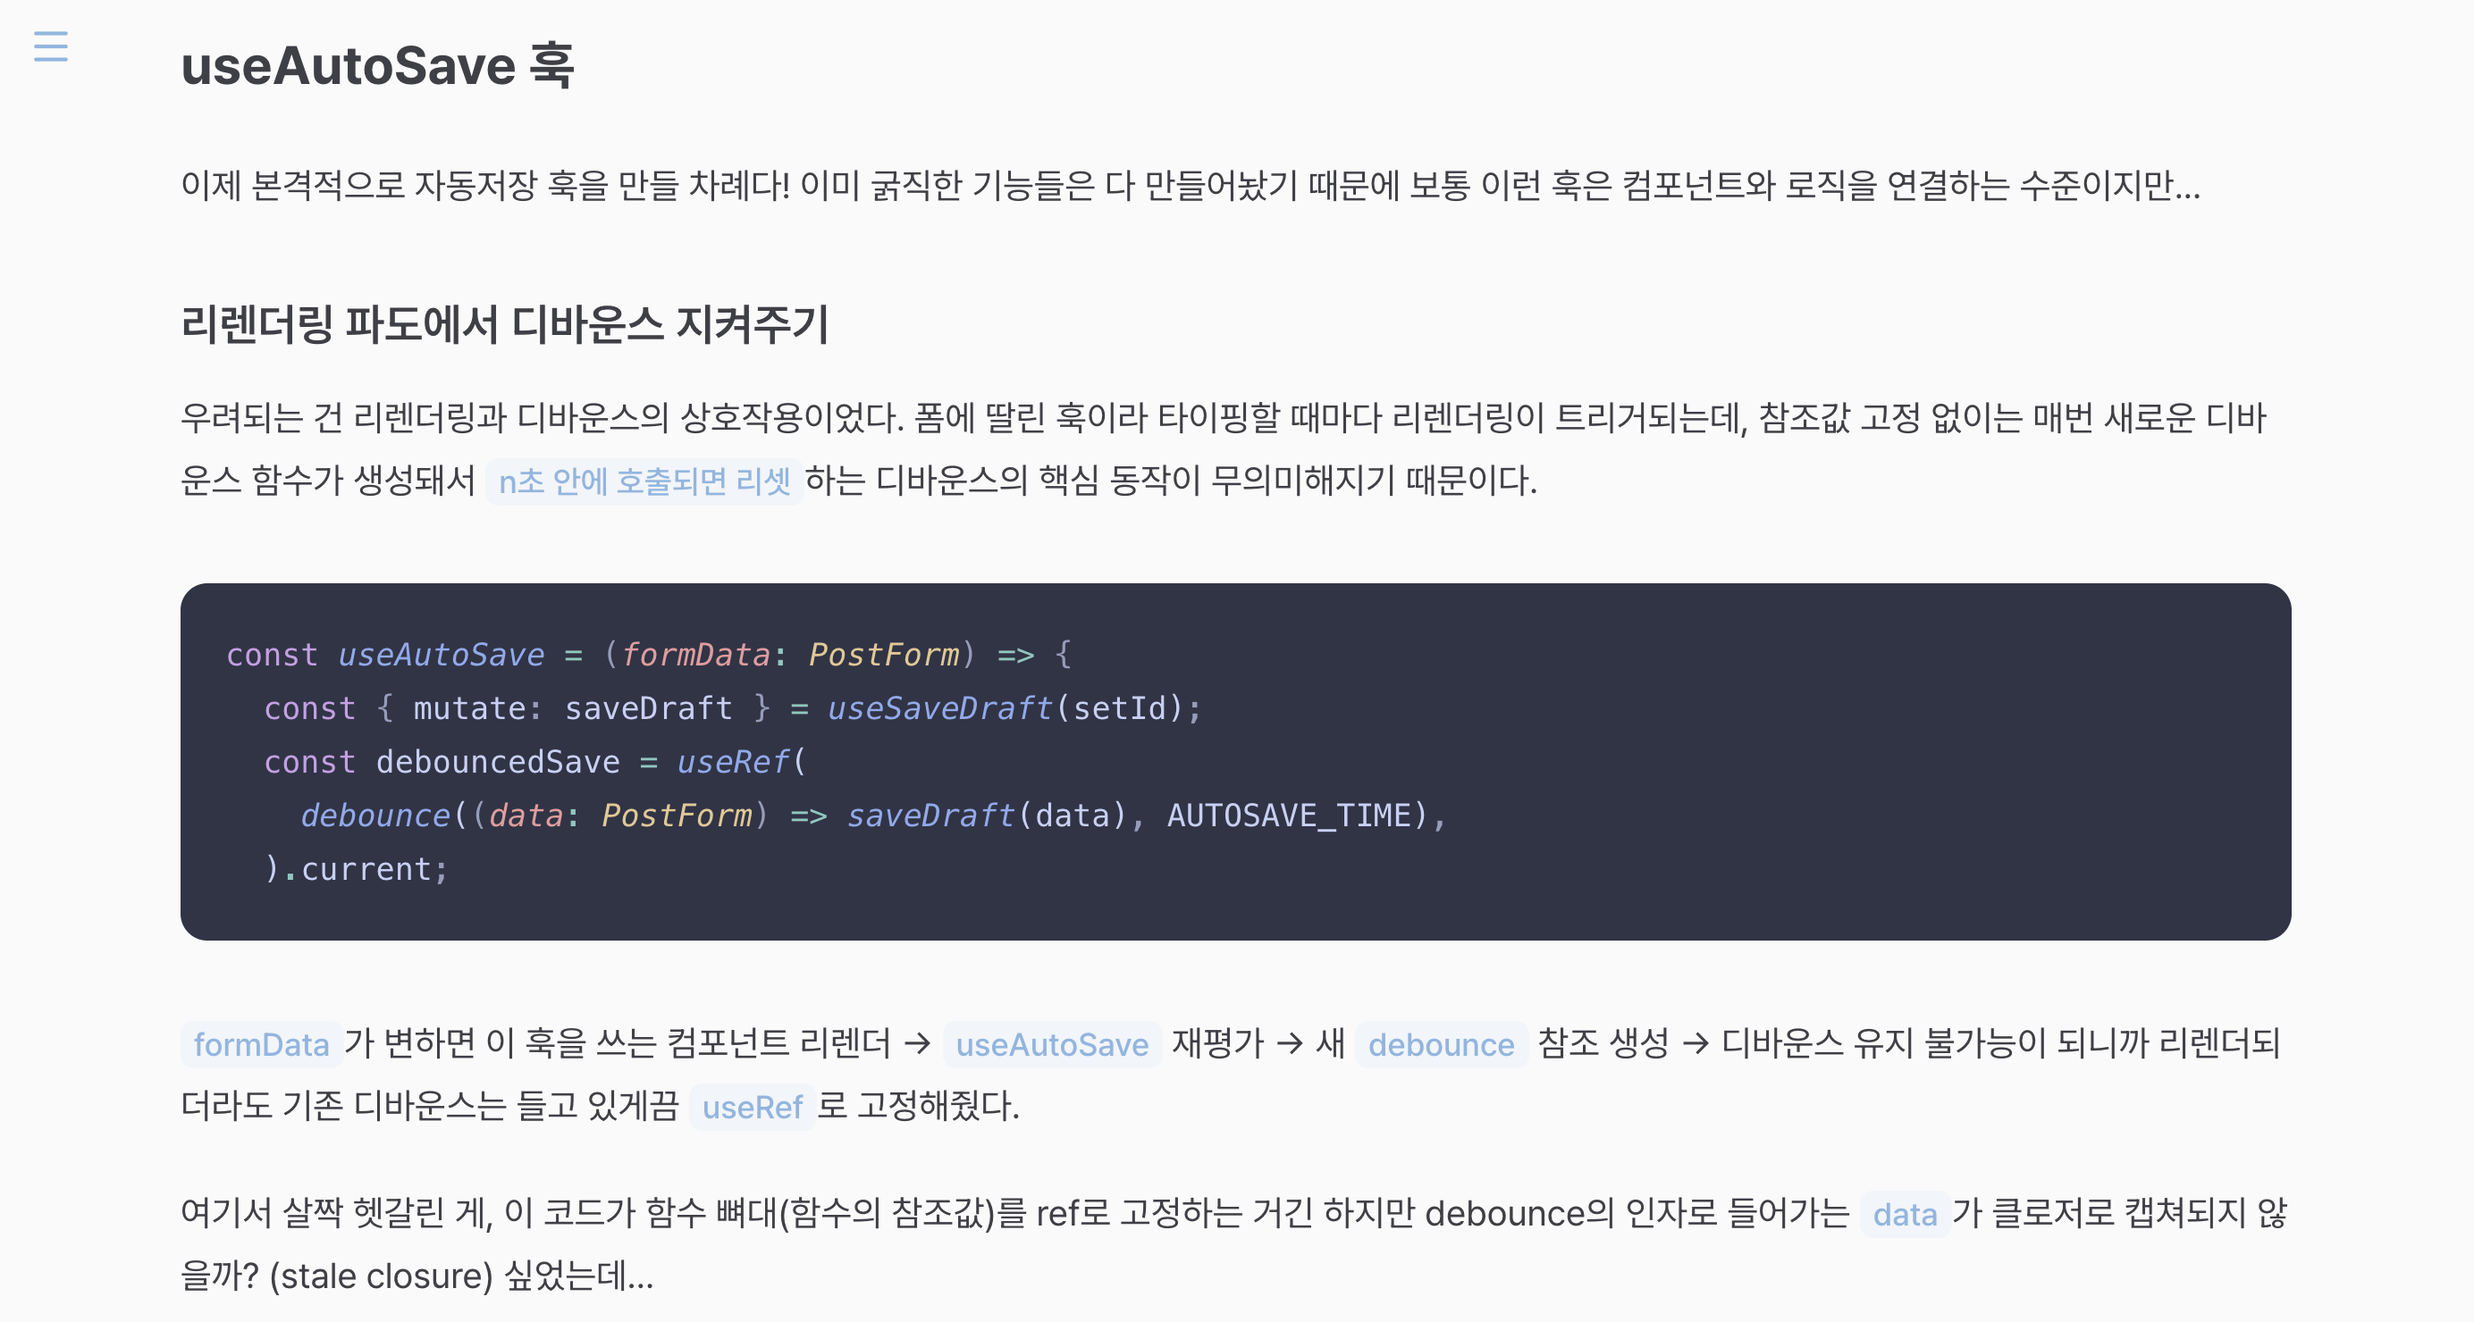
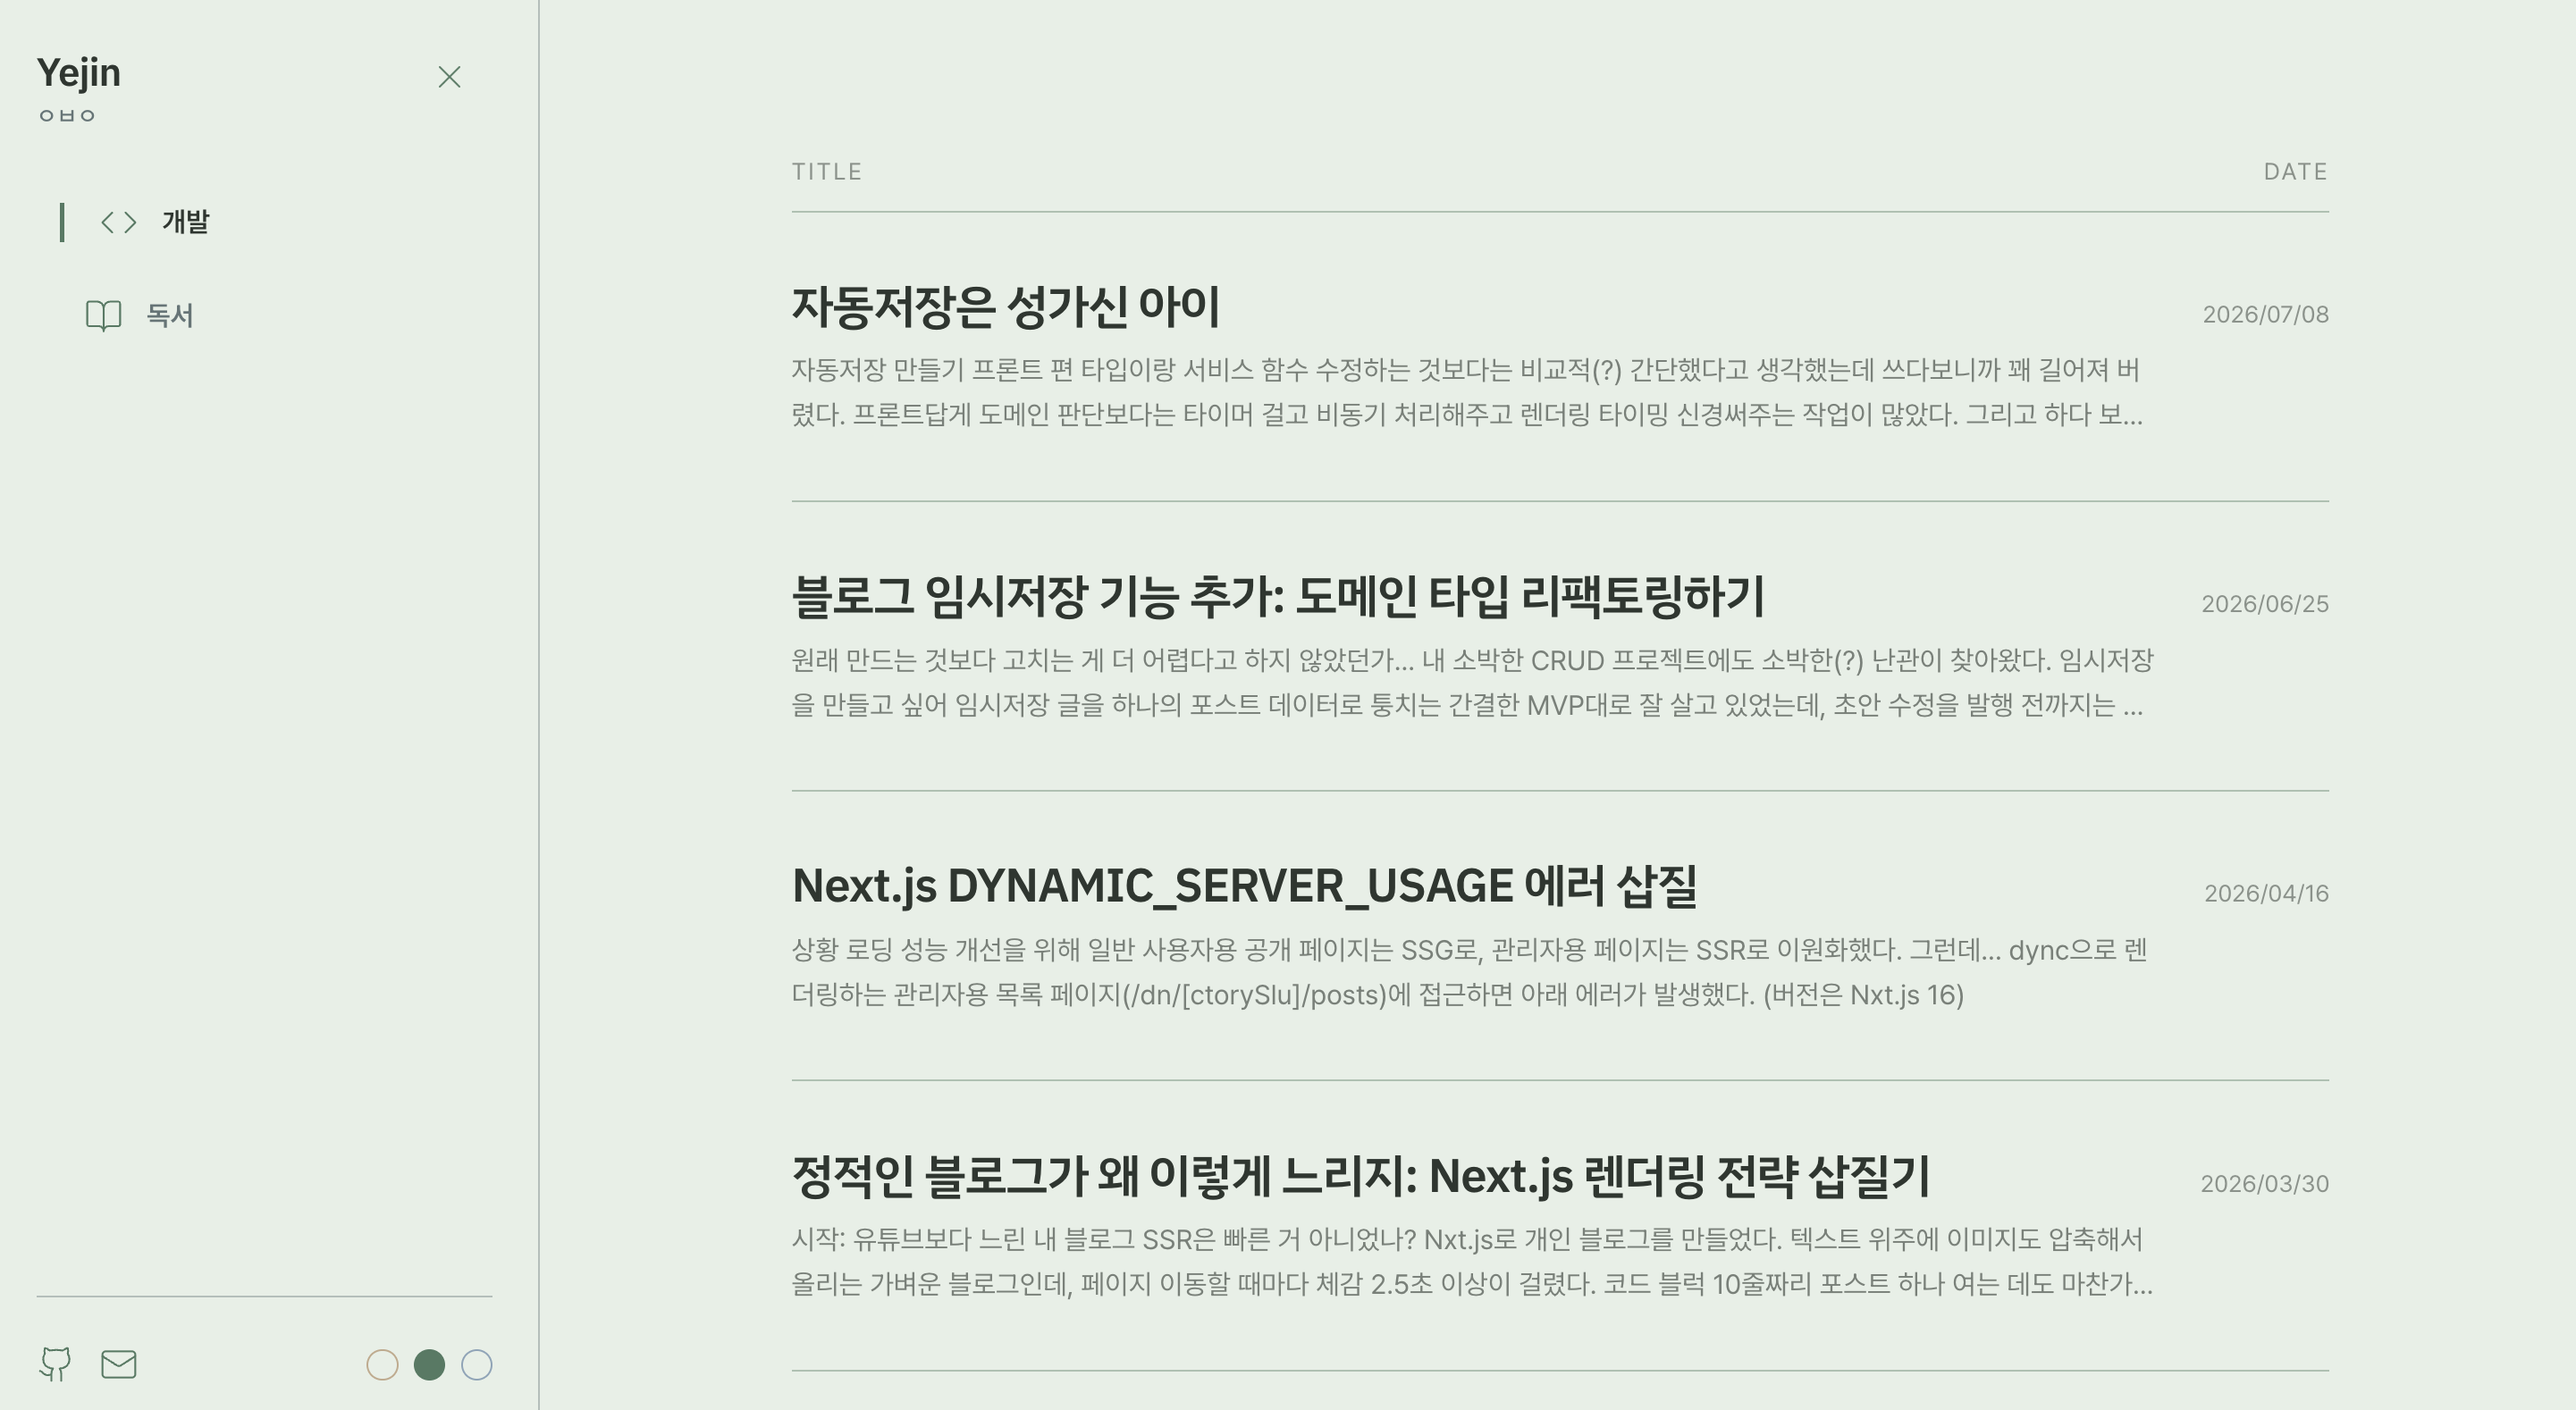
fix: ATS 프로젝트 제거, 블로그 이미지 교체, 깨진 링크 수정
- ATS 프로젝트 삭제 및 Review-me 번호 03으로 조정
- 블로그 hero 이미지를 목록/상세 2장으로 교체 (hero 배열 지원)
- 블로그·Review-me의 마크다운 형식 href를 일반 URL로 수정
- 블로그·Here Again 본문 및 Hero 태그라인 수정

diff --git a/src/projects/blog.jsx b/src/projects/blog.jsx
@@ -1,4 +1,5 @@
 import blogImg from '../assets/images/blog.png';
+import blogDetailImg from '../assets/images/blog_detail.png';
 
 import { Feature } from '../components/layout/ProjectSection';
 import {
@@ -16,10 +17,13 @@ export const meta = {
   stack: ['Next.js', 'TypeScript', 'Supabase'],
   desc: '기존 블로그 플랫폼의 성능 및 자유도 한계를 직접 해결하고자 Next.js로 커스텀한 개인 블로그',
   links: [
-    { label: 'GitHub', href: '[https://github.com/ImxYJL/yejin-notes](https://github.com/ImxYJL/yejin-notes)' },
-    { label: 'Live', href: '[https://yejin-notes.vercel.app/dev/posts](https://yejin-notes.vercel.app/dev/posts)' },
+    { label: 'GitHub', href: 'https://github.com/ImxYJL/yejin-notes' },
+    { label: 'Live', href: 'https://yejin-notes.vercel.app/dev/posts' },
   ],
-  hero: { ratio: '3/2', label: '블로그 스크린샷 이미지', src: blogImg },
+  hero: [
+    { ratio: '3/2', label: '블로그 글 목록 스크린샷', src: blogImg },
+    { ratio: '3/2', label: '블로그 글 상세 스크린샷', src: blogDetailImg },
+  ],
 };
 
 export function BlogContent() {
@@ -30,8 +34,7 @@ export function BlogContent() {
         <Label>문제</Label>
 
         <Prose>
-          정적 콘텐츠를 보여주는 블로그임에도 모든 페이지가 SSR로 동작해
-          포스트 목록과 상세 페이지의 TTFB가 약 2.8초, 2.6초까지 늘어났습니다.
+          텍스트(정적 콘텐츠) 위주의 가벼운 블로그임에도 모든 페이지가 SSR로 동작해 불필요한 서버 왕복 및 검증이 발생했습니다.
         </Prose>
 
         <Flow nodes={[
@@ -41,7 +44,7 @@ export function BlogContent() {
             tone: 'warn',
           },
           {
-            body: '컨텐츠는 정적 데이터지만 요청마다 서버 렌더링 → TTFB 2.5s+',
+            body: '컨텐츠는 정적 데이터지만 요청마다 서버 렌더링',
             tone: 'warn',
           },
         ]} />
@@ -105,8 +108,8 @@ export function BlogContent() {
         <Label>결과</Label>
 
         <Result rows={[
-          { label: '포스트 목록 TTFB', before: 'SSR 2.8s', after: 'SSG 20ms' },
-          { label: '포스트 상세 TTFB', before: 'SSR 2.6s', after: 'SSG 22ms' },
+          { label: '포스트 목록 TTFB', before: 'SSR 0.5s', after: 'SSG 20ms' },
+          { label: '포스트 상세 TTFB', before: 'SSR 0.4s', after: 'SSG 22ms' },
         ]} />
 
         <Prose>
@@ -115,7 +118,7 @@ export function BlogContent() {
         </Prose>
 
         <BlogLink
-          href="[https://yejin-notes.vercel.app/dev/posts/333abda6-2e47-44e5-813d-677f9b17e5ab](https://yejin-notes.vercel.app/dev/posts/333abda6-2e47-44e5-813d-677f9b17e5ab)"
+          href="https://yejin-notes.vercel.app/dev/posts/333abda6-2e47-44e5-813d-677f9b17e5ab"
           text="상세 블로그 포스트"
         />
       </Feature>
@@ -218,14 +221,6 @@ export function BlogContent() {
           서버가 조합한 `editorData` 하나만 사용하도록 경계를 정리했습니다.
         </Prose>
 
-        <Label>자동저장 안정화</Label>
-
-        <Prose>
-          에디터가 리렌더될 때마다 debounce 인스턴스가 재생성되는 문제는
-          lazy init `ref`로 인스턴스를 고정해 해결했고, 최신 상태는 콜백 호출 시점에 전달했습니다.
-          언마운트 시에는 `cancel`로 남은 타이머를 정리했습니다.
-        </Prose>
-
         <Label>배운 점</Label>
 
         <Prose>
@@ -235,52 +230,16 @@ export function BlogContent() {
         </Prose>
 
         <BlogLink
-          href="[https://yejin-notes.vercel.app/dev/posts/416f2344-03fb-4b42-ad71-d38c33f52111](https://yejin-notes.vercel.app/dev/posts/416f2344-03fb-4b42-ad71-d38c33f52111)"
+          href="https://yejin-notes.vercel.app/dev/posts/416f2344-03fb-4b42-ad71-d38c33f52111"
           text="도메인 리팩토링 포스트"
         />
 
         <BlogLink
-          href="[https://yejin-notes.vercel.app/dev/posts/54749061-13a4-46fb-961f-11ce90d6ec5e](https://yejin-notes.vercel.app/dev/posts/54749061-13a4-46fb-961f-11ce90d6ec5e)"
+          href="https://yejin-notes.vercel.app/dev/posts/54749061-13a4-46fb-961f-11ce90d6ec5e"
           text="자동저장 프론트 포스트"
         />
       </Feature>
-
-      <Feature title="환경에 따라 달라지는 코드 하이라이팅">
-
-        <Label>문제</Label>
-
-        <Prose>
-          코드 하이라이터 Shiki의 비동기 엔진 초기화가 CSR 에디터의 동기 렌더링 흐름과 충돌해
-          에디터 페이지에서 런타임 에러가 발생했습니다.
-        </Prose>
-
-        <Label>판단</Label>
-
-        <Prose>
-          한 라이브러리로 에디터와 뷰어를 모두 처리하다가 
-          두 환경에서 가장 중요한 요구사항이 다르다는 점을 주목했습니다.
-        </Prose>
-
-        <Table
-          head={['', '에디터', '뷰어']}
-          rows={[
-            ['우선순위', '실시간성 · 렌더 안정성', '하이라이팅 품질'],
-            ['렌더 환경', 'CSR', 'RSC'],
-            ['라이브러리', 'Highlight.js', 'Shiki'],
-            ['적용 방식', '동기 렌더링', '서버에서 비동기 처리'],
-          ]}
-        />
-
-        <Prose>
-          에디터는 안정적인 실시간 렌더링을, 뷰어는 높은 하이라이팅 품질을
-          우선해 환경에 맞는 라이브러리를 각각 선택했습니다.
-        </Prose>
-
-        <BlogLink
-          href="[https://yejin-notes.vercel.app/dev/posts/cd337be1-0d0d-4933-b737-dc02fdb65bd1](https://yejin-notes.vercel.app/dev/posts/cd337be1-0d0d-4933-b737-dc02fdb65bd1)"
-          text="상세 포스트"
-        />
-      </Feature>
+     
     </>
   );
 }

diff --git a/src/components/layout/ProjectSection.jsx b/src/components/layout/ProjectSection.jsx
@@ -111,6 +111,18 @@ const Links = styled.div`
   }
 `;
 
+/* Hero 이미지 여러 장: 한 장씩 세로로 */
+const HeroStack = styled.div`
+  display: flex;
+  flex-direction: column;
+  gap: 32px;
+  margin: 12px 0 64px;
+
+  img {
+    margin: 0 auto;
+  }
+`;
+
 /* --- Feature (기능 단위 블록 묶음) --- */
 const FeatureWrap = styled.div`
   margin-bottom: clamp(52px, 7vw, 76px);
@@ -178,8 +190,14 @@ export function ProjectSection({ meta, children }) {
           </div>
         </Intro>
 
-        {/* Hero 이미지 (src 있으면 실제 이미지, 없으면 placeholder) */}
-        {meta.hero && (
+        {/* Hero 이미지 (src 있으면 실제 이미지, 없으면 placeholder). 배열이면 한 장씩 세로로. */}
+        {Array.isArray(meta.hero) ? (
+          <HeroStack>
+            {meta.hero.map((h) => (
+              <ImagePlaceholder key={h.label} ratio={h.ratio} label={h.label} src={h.src} />
+            ))}
+          </HeroStack>
+        ) : meta.hero && (
           <ImagePlaceholder
             ratio={meta.hero.ratio}
             label={meta.hero.label}

diff --git a/src/projects/here-again.jsx b/src/projects/here-again.jsx
@@ -36,9 +36,10 @@ export function HereAgainContent() {
         ]} />
 
         <Prose>
-          폼 A의 입력(캡슐 생성)을 서버에 전달하고 그 결과를 기반으로 폼 B(캡슐 완성)를 구성하는 구조였습니다.
-          AI 질문 생성 및 백엔드 응답에 필요한 약 3초는 프론트에서 줄일 수 없는 시간이었기 때문에,
-          프론트가 추가로 소모하는 시간과 대기 경험을 줄이는 것을 목표로 잡았습니다.
+          추억 캡슐 생성을 위한 폼을 Multi-Step Form으로 구성했습니다.
+          폼 A의 입력(캡슐 생성)을 서버에 전달하고 그 결과를 기반으로 폼 B(캡슐 완성)를 렌더링하는 구조였고, 서버 응답이 늦어 화면 전환이 오래 걸렸습니다.
+          AI 질문 생성 및 백엔드 응답에 필요한 약 3초는 프론트에서 줄일 수 없는 시간이었기 때문에
+          프론트가 추가로 소모하는 시간은 줄이고 대기 경험은 더 낫게 개선하기로 했습니다.
         </Prose>
 
         <Label>가설</Label>

diff --git a/src/components/layout/Hero.jsx b/src/components/layout/Hero.jsx
@@ -78,8 +78,8 @@ export function Hero() {
         <Role>Frontend Developer</Role>
         <Name>이예진</Name>
         <Tagline>
-          구현 중 마주친 <em>제약</em>을 우회하지 않고,<br />
-          제약이 드러낸 <em>구조</em>를 다시 설계하는 개발자입니다.
+          {/* 구현 중 마주친 <em>제약</em>을 우회하지 않고,<br />
+          제약이 드러낸 <em>구조</em>를 다시 설계하는 개발자입니다. */}
         </Tagline>
         <Contact>
           <a href="https://github.com/ImxYJL" target="_blank" rel="noopener noreferrer">

diff --git a/src/projects/index.js b/src/projects/index.js
@@ -1,13 +1,11 @@
 import { meta as blogMeta, BlogContent } from './blog.jsx';
 import { meta as hereMeta, HereAgainContent } from './here-again.jsx';
-import { meta as atsMeta, AtsContent } from './ats.jsx';
 import { meta as reviewMeta, ReviewMeContent } from './review-me.jsx';
 
 /* 프로젝트 = 목차용 메타 + 상세 콘텐츠 컴포넌트 조합 */
 export const projects = [
   { meta: blogMeta, Content: BlogContent },
   { meta: hereMeta, Content: HereAgainContent },
-  { meta: atsMeta, Content: AtsContent },
   { meta: reviewMeta, Content: ReviewMeContent },
 ];
 

diff --git a/src/projects/review-me.jsx b/src/projects/review-me.jsx
@@ -8,7 +8,7 @@ import {
 
 export const meta = {
   id: 'review-me',
-  index: '04',
+  index: '03',
   name: 'Review-me',
   accent: 'review',
   period: '2024.07 — 2025.02',
@@ -19,7 +19,7 @@ export const meta = {
   links: [
     {
       label: 'GitHub',
-      href: '[https://github.com/woowacourse-teams/2024-review-me](https://github.com/woowacourse-teams/2024-review-me)',
+      href: 'https://github.com/woowacourse-teams/2024-review-me',
     },
   ],
   hero: {
